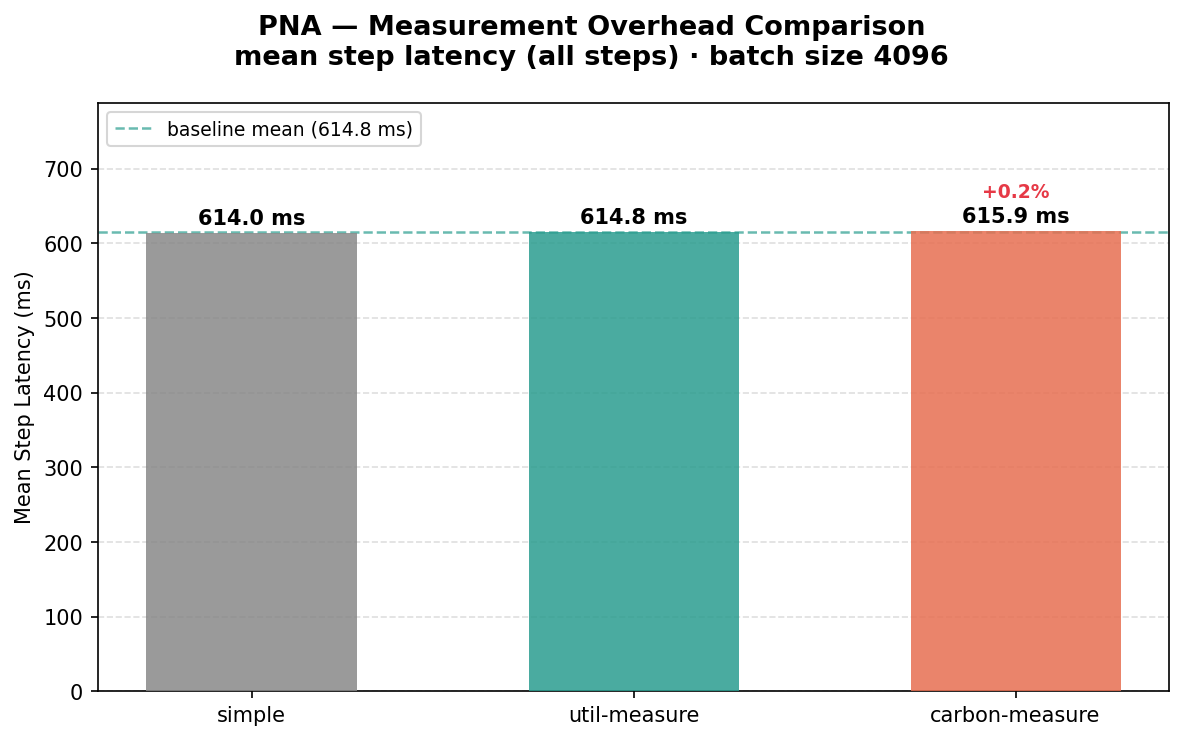
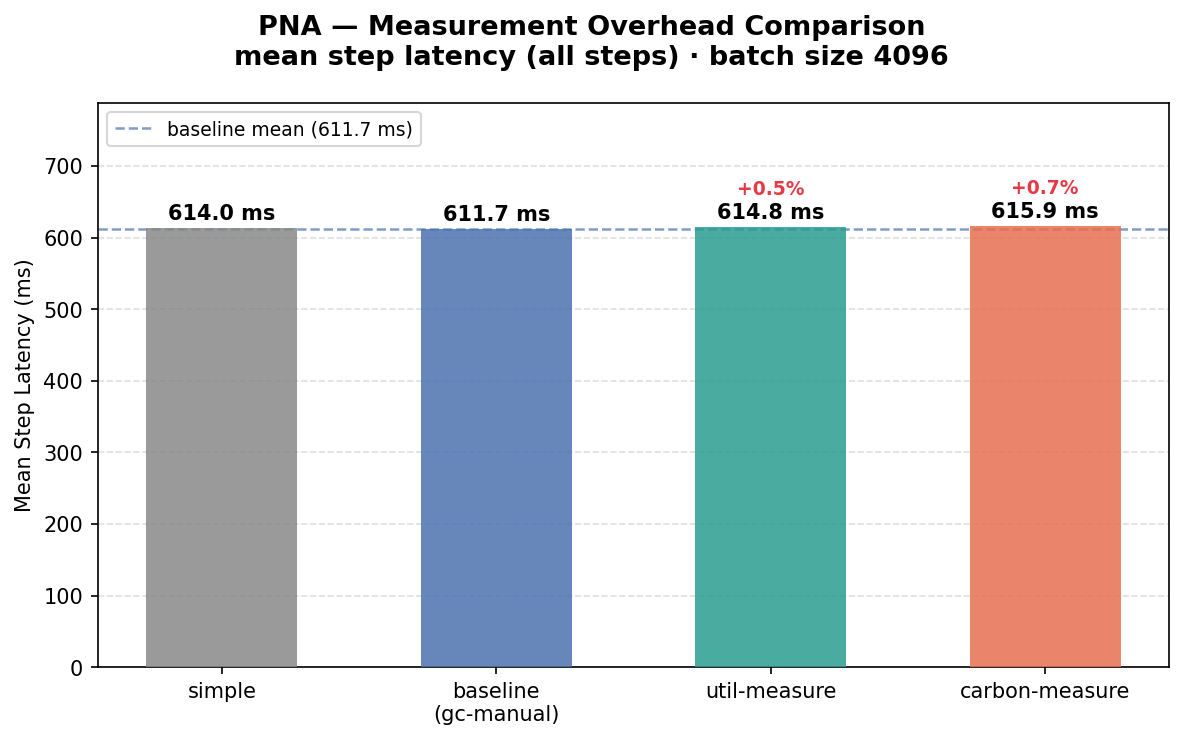
update

diff --git a/README.md b/README.md
@@ -2,19 +2,18 @@
 
 This report presents a profiling study of the **Principal Neighbourhood Aggregation (PNA)** graph neural network trained on a molecular property prediction task. We examine how batch size affects training latency, GPU utilisation, and energy consumption, and investigate the sources of step-time variability at different operating points.
 
-All experiments run on a single SLURM-managed GPU node with **2 DataLoader workers** to overlap data preparation with GPU computation. Four batch sizes are studied: **512**, **1024**, **2048**, and **4096** (the largest that fits in GPU memory). Batch size **4096** is the primary focus; **512** is the secondary reference for contrast.
-
 ---
 
 ## Table of Contents
 
 1. [The PNA Workload](#1-the-pna-workload)
-2. [Training at Batch Size 4096](#2-training-at-batch-size-4096)
-3. [Training at Batch Size 512 — GC Spike Attribution](#3-training-at-batch-size-512--gc-spike-attribution)
-4. [Batch-Size Comparison](#4-batch-size-comparison)
-5. [Energy and Carbon](#5-energy-and-carbon)
-6. [Measurement Overhead](#6-measurement-overhead)
-7. [Summary](#7-summary)
+2. [Experiment Setup](#2-experiment-setup)
+3. [Training at Batch Size 4096](#3-training-at-batch-size-4096)
+4. [Training at Batch Size 512 — GC Spike Attribution](#4-training-at-batch-size-512--gc-spike-attribution)
+5. [Batch-Size Comparison](#5-batch-size-comparison)
+6. [Energy and Carbon](#6-energy-and-carbon)
+7. [Measurement Overhead](#7-measurement-overhead)
+8. [Summary](#8-summary)
 
 ---
 
@@ -36,11 +35,52 @@ Each training step follows three phases:
  OPTIMIZER     Adam weight update + cosine-annealing LR schedule
 ```
 
-Data loading is handled by PyTorch Geometric's `DataLoader` with **2 worker processes** that pre-fetch and collate batches in parallel with GPU computation. This pipelining is critical for GPU utilisation — without it, the main thread alternates between CPU-bound collation and GPU dispatch, leaving the GPU idle during data preparation.
+Data loading is handled by PyTorch Geometric's `DataLoader`, which collates variable-size molecular graphs into a single batched graph. This involves stacking node feature tensors, concatenating and offset-shifting edge index tensors, and building batch assignment vectors — all Python-heavy operations that create significant GC pressure.
 
 ---
 
-## 2. Training at Batch Size 4096
+## 2. Experiment Setup
+
+### Dataset
+
+All experiments use **PCQM4Mv2**, a large-scale quantum chemistry dataset from the Open Graph Benchmark. Each sample is a molecular graph: nodes represent atoms (with features encoding atomic number, chirality, formal charge, etc.) and edges represent chemical bonds. The regression target is the HOMO-LUMO gap, a quantum property governing a molecule's optical and electronic behaviour.
+
+We use a **10 000-graph subset** of the training split. This is large enough to exhibit realistic batch-composition effects (partial batches, variable graph sizes) while keeping individual experiment runtimes manageable for sweeping across multiple configurations.
+
+### Training Configurations
+
+| Configuration | Batch Sizes | Workers | Purpose |
+|:---|:---|:---:|:---|
+| **Primary** | **4096** | 2 | Main focus — largest batch that fits in GPU memory. Reveals high-utilisation regime, batch-shape effects, and GC interactions at scale. |
+| **Secondary** | **512** | 2 | Contrast point — smaller batches expose GC spike patterns and different forward/backward cost balance. |
+| **Trend** | 1024, 2048 | 2 | Fill in the scaling curve between 512 and 4096 for utilisation, latency, and energy. |
+| **Worker sweep** | 4096 | 0, 2, 4 | Isolates the effect of DataLoader parallelism on GPU utilisation and throughput at fixed batch size. |
+
+All runs use **2 DataLoader workers** by default, which overlap CPU-side graph collation with GPU computation. The worker sweep at bs4096 additionally tests 0 and 4 workers to quantify the impact of this pipelining.
+
+**Batch size 4096** is the largest configuration that fits in GPU memory on our hardware. Attempts at 8192 result in out-of-memory errors. This makes 4096 the natural operating point for maximum GPU occupancy and the focus of our analysis. **Batch size 512** serves as a contrast — its short steps and frequent GC triggers produce qualitatively different behaviour, particularly around garbage-collection spikes.
+
+The intermediate sizes (1024, 2048) are included to show the **trend** when varying batch size: how GPU utilisation, epoch latency, and energy scale between the two extremes. They are not analysed in as much detail individually.
+
+### Measurement Types
+
+We build up instrumentation in layers, starting from a raw observation of the workload and progressively adding controlled measurements:
+
+**1. Raw measurement** (`pna_simple`) — The first pass captures the workload as-is, with Python's garbage collector running at default settings. CUDA-synchronised wall-clock timers record per-step and per-substep (forward, backward, optimizer) durations. At bs4096, batch shape metadata (num_graphs, num_nodes, num_edges) is also recorded to correlate step time with graph composition. This is the measurement that reveals the GC spike pattern, and motivates the next step.
+
+**2. GC spike attribution** (`pna_spike`) — A diagnostic experiment to confirm that the spikes observed in the raw measurement are caused by garbage collection. Two back-to-back runs are performed: one with GC **on** plus gen-2 event logging (via `gc.callbacks`), and one with GC **off** (`gc.disable()`). Comparing the two traces isolates GC as the sole source of latency variability.
+
+**3. GC-controlled end-to-end measurement** (`pna_manual_gc`) — With GC confirmed as the spike source, this configuration establishes a **clean baseline**. Automatic GC is disabled during training and a full gen-2 sweep is forced between epochs, keeping GC pauses outside any measurement window while preventing unbounded heap growth. This manual-GC strategy is used as the foundation for all subsequent measurements.
+
+**4. Hardware utilisation** (`pna_utils`) — Built on top of the GC-controlled baseline, this adds GPU utilisation sampling (via `pynvml`), per-process CPU utilisation (via `psutil`), and RAM usage. Samples are taken at 500 ms intervals to minimise overhead while capturing the utilisation landscape at each step.
+
+**5. Energy and carbon** (`pna_carbon`) — Also built on the GC-controlled baseline. Records CUDA-synced substep timing plus per-step energy consumption (CPU, GPU, RAM breakdown in kWh) and CO₂-equivalent emissions, measured by CodeCarbon's `OfflineEmissionsTracker` in task mode with 500 ms measurement windows.
+
+All measurement types add less than 0.3% overhead to step latency (see [Section 7](#7-measurement-overhead)), so the numbers they report are representative of the uninstrumented workload.
+
+---
+
+## 3. Training at Batch Size 4096
 
 At batch size 4096, the training dataset yields **3 steps per epoch**: two full batches of 4096 graphs and one partial batch of 1808 graphs (the remainder). This creates a distinctive repeating pattern.
 
@@ -89,7 +129,7 @@ GPU utilisation averages **92.3%** at this batch size — remarkably high for a 
 
 ---
 
-## 3. Training at Batch Size 512 — GC Spike Attribution
+## 4. Training at Batch Size 512 — GC Spike Attribution
 
 At batch size 512, each epoch has 20 steps and execution time is far more uniform — except for **periodic spikes** that significantly exceed the ~105 ms baseline:
 
@@ -140,7 +180,7 @@ GC events also affect bs4096 training when GC is enabled. The spike experiment a
 
 ---
 
-## 4. Batch-Size Comparison
+## 5. Batch-Size Comparison
 
 ### Epoch Latency
 
@@ -195,7 +235,7 @@ These intermediate sizes show a transition: at bs1024 the forward and backward p
 
 ---
 
-## 5. Energy and Carbon
+## 6. Energy and Carbon
 
 ### Energy per Epoch
 
@@ -267,7 +307,7 @@ The carbon emissions traces mirror the energy traces exactly (Quebec's grid carb
 
 ---
 
-## 6. Measurement Overhead
+## 7. Measurement Overhead
 
 Instrumenting training with utilisation sampling and energy tracking adds minimal overhead. At bs4096, mean step latency across configurations:
 
@@ -283,7 +323,7 @@ All instrumentation adds less than **0.3% overhead**, confirming that the measur
 
 ---
 
-## 7. Summary
+## 8. Summary
 
 1. **Batch size 4096** achieves the highest GPU utilisation (**92.3%**) thanks to large CUDA kernels that saturate the GPU. With 2 DataLoader workers, data pipelining keeps the GPU near-continuously busy.
 
